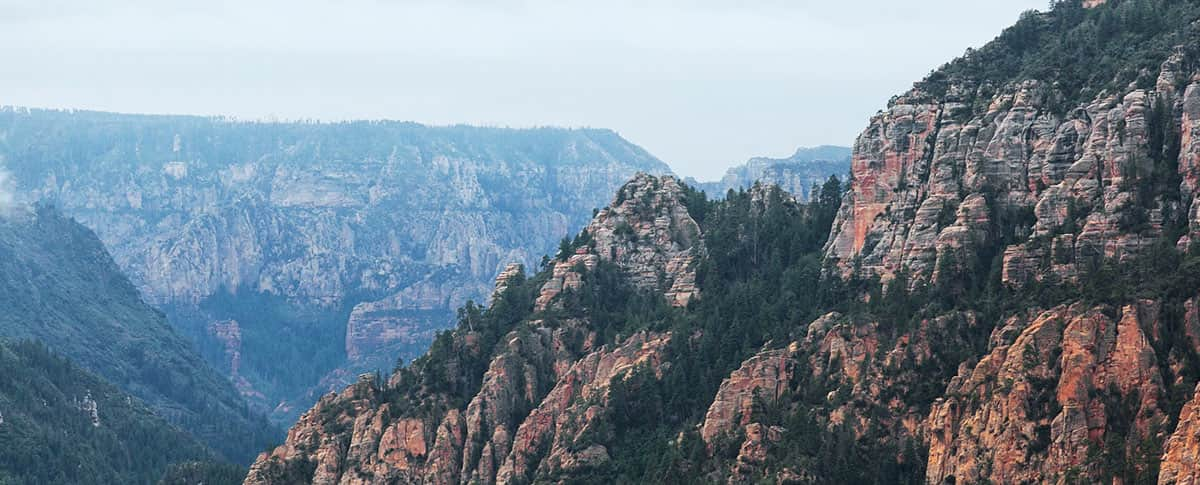
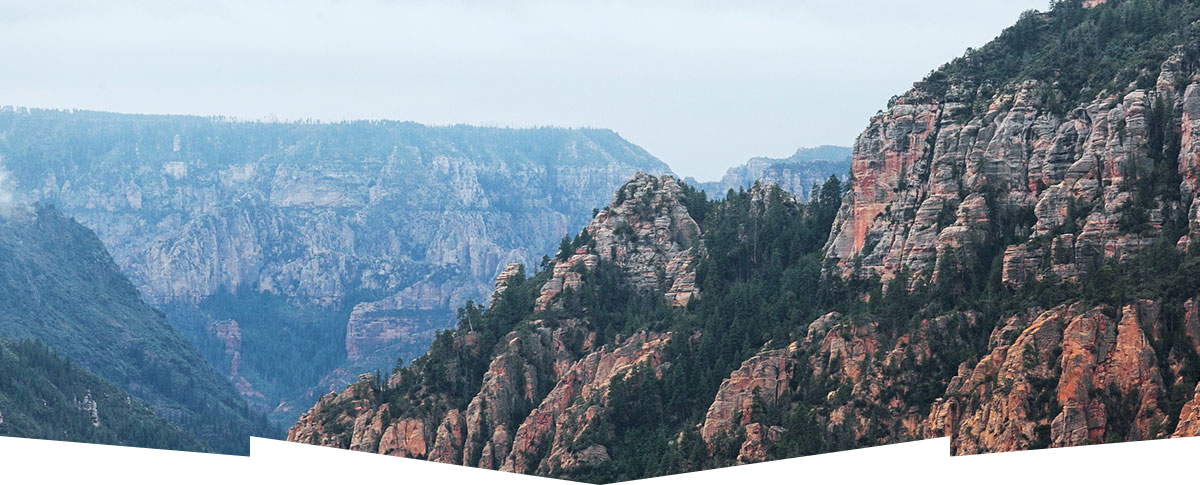
заменил картинку, исправил не закрытый li

diff --git a/index.html b/index.html
@@ -84,6 +84,7 @@
                                 своя жизнь
                             </p>
                             <img src="img/photo-1.jpg" width="800" height="384" alt="Фото города">
+                        </li>
                         <li class="advantages-item advantages-inner">
                             <h4 class="advantages-title">
                                 ЖИЛЬЁ
@@ -93,6 +94,7 @@
                                     в настоящем мотеле,<br>
                                     всё как в кино!
                                 </p>
+                        </li>
                         <li class="advantages-item advantages-inner">
                             <h4 class="advantages-title">
                                 ЕДА

diff --git a/css/styles.css b/css/styles.css
@@ -108,7 +108,7 @@ body {
 
 .advantages-list {
     display: flex;
-    justify-content: space-between;
+    justify-content: flex-start;
     flex-wrap: wrap;
     text-align: center;
     margin: 0;
